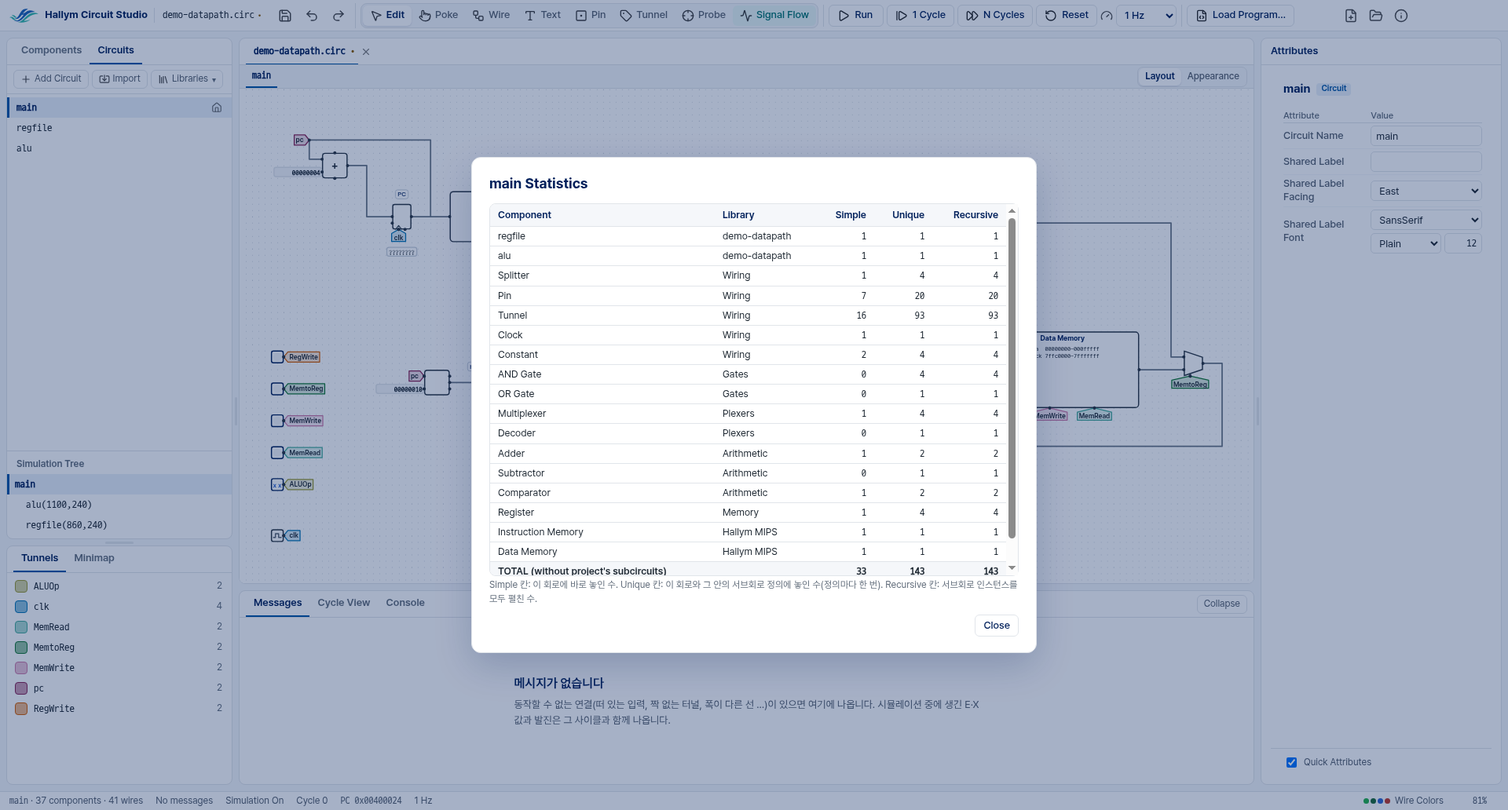
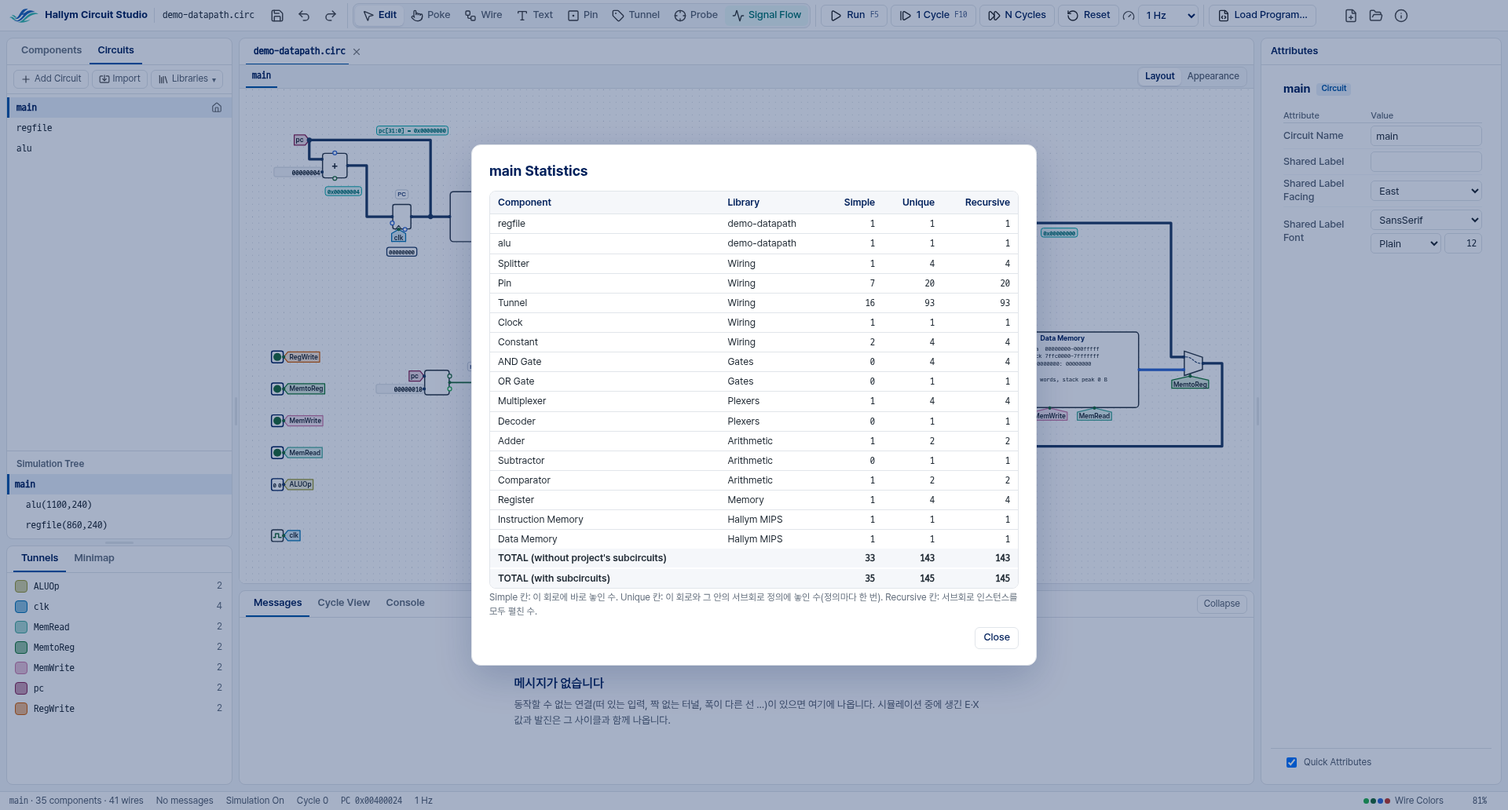
Address the #453 reviews: clean files stay clean after the first program load, Korean-only analysis notes, pinned statistics totals, restaged screenshots
Opening a file whose memory's .hmx differs reloads it without making the
file dirty, so quitting or Create Submission never re-save an untouched
file. Analyze Circuit says why no expression in one Korean sentence naming
the part; the multi-bit pin note states facts only. The statistics totals
sit in a sticky table foot. Screenshots use demo-datapath as opened and a
new overlap-checked half adder example.

diff --git a/electron/tools/capture-screens.ts b/electron/tools/capture-screens.ts
@@ -955,19 +955,46 @@ function sideBySide(name: string, left: Buffer, right: Buffer): void {
   await shot(r, 'narrow-tabs');
   await r.close();
 }
-  // N-21 (D-162): Undo History, Export Image, Create Submission, Get Circuit Statistics, Analyze Circuit.
+  // N-21 (D-162): Export Image, Get Circuit Statistics and Create Submission over demo-datapath as opened (its values,
+  // the counts of what is on the Canvas); Undo History after edits made off to the side, the Canvas panned so the window
+  // stands over empty paper; Analyze Circuit of the half adder example (tests/circ/half-adder.circ, overlap-checked).
+  async function palette(r: Running, text: string, name: string): Promise<void> {
+    await r.page.keyboard.press('Control+k');
+    await r.page.keyboard.type(text);
+    await r.page.getByRole('dialog', { name: 'Search' }).locator('.palrow').first().filter({ hasText: name }).waitFor();
+    await r.page.keyboard.press('Enter');
+  }
   {
     const r = await start(FHD);
     const { page } = r;
     await openFile(r, sample(r.dir, DATAPATH));
     await drawn(r);
-    const palette = async (text: string, name: string) => {
-      await page.keyboard.press('Control+k');
-      await page.keyboard.type(text);
-      await page.getByRole('dialog', { name: 'Search' }).locator('.palrow').first().filter({ hasText: name }).waitFor();
-      await page.keyboard.press('Enter');
-    };
-    // Undo History: three gates placed, the last undone -- Start of History, the actions, Now, one to redo
+    // Export Image: PNG at 2x, the whole circuit, chips on
+    await palette(r, 'export', 'Export Image…');
+    await page.getByRole('dialog', { name: 'Export Image' }).waitFor();
+    await shot(r, 'export-dialog', { keepFocus: true });
+    await page.keyboard.press('Escape');
+    // Get Circuit Statistics of main (the engine's counts of this file)
+    await page.getByRole('tab', { name: 'Circuits' }).click();
+    await page.locator('.circlist li button', { hasText: 'main' }).first().click({ button: 'right' });
+    await page.locator('.ovmenu button', { hasText: 'Get Circuit Statistics' }).click();
+    await page.getByRole('dialog', { name: 'main Statistics' }).waitFor();
+    await shot(r, 'statistics');
+    await page.keyboard.press('Escape');
+    // Create Submission: saved, the four checks, the files
+    await palette(r, 'submission', 'Create Submission…');
+    await page.getByRole('dialog', { name: 'Create Submission' }).waitFor();
+    await shot(r, 'submission');
+    await page.keyboard.press('Escape');
+    await r.close();
+  }
+  {
+    const r = await start(FHD);
+    const { page } = r;
+    await openFile(r, sample(r.dir, DATAPATH));
+    await drawn(r);
+    // three gates placed below the datapath (no undo: the fake engine gives what an undo brings back new ids, and the
+    // values it sends are for the file's own)
     await page.evaluate(async () => {
       const app = (window as unknown as { app: { call(m: string, p: unknown): Promise<unknown> } }).app;
       const sc = (window as unknown as { __hcsCanvas: { scene: { fileId: string; circuitId: string } } }).__hcsCanvas.scene;
@@ -975,53 +1002,36 @@ function sideBySide(name: string, left: Buffer, right: Buffer): void {
       await app.call('edit.addComponent', { ...at, lib: 'Gates', name: 'AND Gate', loc: [700, 800] });
       await app.call('edit.addComponent', { ...at, lib: 'Gates', name: 'OR Gate', loc: [800, 800] });
       await app.call('edit.addComponent', { ...at, lib: 'Gates', name: 'NOT Gate', loc: [900, 800] });
-      await app.call('edit.undo', at);
     });
-    await palette('undo history', 'Undo History…');
-    await page.getByRole('dialog', { name: 'Undo History' }).locator('.histrow.redo').waitFor();
+    await drawn(r);
+    // the Canvas moved right by the window's width: the window stands over empty paper
+    await page.evaluate(() => {
+      const c = (window as unknown as { __hcsCanvas: { view: { x: number; y: number; zoom: number }; setView(v: object): void } }).__hcsCanvas;
+      c.setView({ ...c.view, x: c.view.x - 360 / c.view.zoom });
+    });
+    await canvasSettled(page);
+    await palette(r, 'undo history', 'Undo History…');
+    await page.getByRole('dialog', { name: 'Undo History' }).locator('.histrow', { hasText: 'Add NOT Gate' }).waitFor();
     await drawn(r);
     await shot(r, 'undo-history');
-    await page.getByRole('dialog', { name: 'Undo History' }).locator('.histlist').focus();
-    await page.keyboard.press('Escape');
-    // Export Image: PNG at 2x, the whole circuit, chips on
-    await palette('export', 'Export Image…');
-    await page.getByRole('dialog', { name: 'Export Image' }).waitFor();
-    await shot(r, 'export-dialog', { keepFocus: true });
-    await page.keyboard.press('Escape');
-    // Get Circuit Statistics of main (the engine's counts)
-    await page.getByRole('tab', { name: 'Circuits' }).click();
-    await page.locator('.circlist li button', { hasText: 'main' }).first().click({ button: 'right' });
-    await page.locator('.ovmenu button', { hasText: 'Get Circuit Statistics' }).click();
-    await page.getByRole('dialog', { name: 'main Statistics' }).waitFor();
-    await shot(r, 'statistics');
-    await page.keyboard.press('Escape');
     await r.close();
   }
   {
     const r = await start(FHD);
     const { page } = r;
-    await openFile(r, sample(r.dir, 'tests/circ/subcircuit.circ'));
+    await openFile(r, sample(r.dir, 'tests/circ/half-adder.circ'));
     await page.locator('.canvas-view canvas').waitFor();
     await canvasSettled(page);   // no values: the fake engine has none for this file
-    // Analyze Circuit of half_adder: the simulated table, the note why
+    // Analyze Circuit of main: the original's expression, its minimized forms
     await page.getByRole('tab', { name: 'Circuits' }).click();
-    await page.locator('.circlist li button', { hasText: 'half_adder' }).first().click({ button: 'right' });
+    await page.locator('.circlist li button', { hasText: 'main' }).first().click({ button: 'right' });
     await page.locator('.ovmenu button', { hasText: 'Analyze Circuit' }).click();
-    const a = page.getByRole('dialog', { name: 'Combinational Analysis: half_adder' });
+    const a = page.getByRole('dialog', { name: 'Combinational Analysis: main' });
     await a.locator('.tooltab', { hasText: 'Minimized' }).click();
     await shot(r, 'analyze');
     await page.keyboard.press('Escape');
-    // Create Submission: saved, the four checks, the files
-    await page.keyboard.press('Control+k');
-    await page.keyboard.type('submission');
-    await page.getByRole('dialog', { name: 'Search' }).locator('.palrow').first().filter({ hasText: 'Create Submission…' }).waitFor();
-    await page.keyboard.press('Enter');
-    await page.getByRole('dialog', { name: 'Create Submission' }).waitFor();
-    await shot(r, 'submission');
-    await page.keyboard.press('Escape');
     await r.close();
   }
-
 }
 
 await captureAll();

diff --git a/electron/src/renderer/app/project-tools.ts b/electron/src/renderer/app/project-tools.ts
@@ -137,11 +137,15 @@ export function historyWindow(host: ProjectToolsHost): HistoryWindow {
 
 export function showStatistics(s: Statistics): Promise<boolean> {
   const head = h('tr', {}, ...['Component', 'Library', 'Simple', 'Unique', 'Recursive'].map((t, i) => h('th', { class: i > 1 ? 'num' : '' }, t)));
-  const rows = statisticsLines(s).map((l) => h('tr', { class: l.total ? 'total' : '' },
-    h('td', {}, l.component), h('td', {}, l.library), h('td', { class: 'num' }, String(l.simple)), h('td', { class: 'num' }, String(l.unique)), h('td', { class: 'num' }, String(l.recursive))));
+  const row = (l: ReturnType<typeof statisticsLines>[number]) => h('tr', { class: l.total ? 'total' : '' },
+    h('td', {}, l.component), h('td', {}, l.library), h('td', { class: 'num' }, String(l.simple)), h('td', { class: 'num' }, String(l.unique)), h('td', { class: 'num' }, String(l.recursive)));
+  const lines = statisticsLines(s);
+  // the two TOTAL rows stay in view at the table's foot (the rows scroll above them)
   return dialog({
     title: `${s.circuit} Statistics`, cls: 'statsdlg',
-    body: [h('div', { class: 'tooltable' }, h('table', { class: 'stats' }, h('thead', {}, head), h('tbody', {}, ...rows))), h('p', { class: 'hint' }, prose(STATISTICS_HINT))],
+    body: [h('div', { class: 'tooltable' }, h('table', { class: 'stats' }, h('thead', {}, head),
+      h('tbody', {}, ...lines.filter((l) => !l.total).map(row)), h('tfoot', {}, ...lines.filter((l) => l.total).map(row)))),
+    h('p', { class: 'hint' }, prose(STATISTICS_HINT))],
     cancel: 'Close',
   });
 }
@@ -191,7 +195,6 @@ export function showAnalysis(a: Analysis): Promise<boolean> {
     : a.problem === 'noOutputs' || a.problem === 'tooManyOutputs' || a.problem === 'multibitOutput' ? 1 : 0;
   pick(Math.max(0, first));
   const notes = [problem, analyzeSourceText(a)].filter((t): t is string => !!t).map((t) => h('p', { class: 'toolnote' }, prose(t)));
-  if (a.expressionFailure) notes.push(h('p', { class: 'hint mono' }, a.expressionFailure));
   return dialog({ title: `Combinational Analysis: ${a.circuit}`, cls: 'analysisdlg', body: [...notes, strip, pane], cancel: 'Close' });
 }
 
@@ -226,8 +229,8 @@ export function askExport(o: { selection: boolean }): Promise<ExportChoice | nul
     sentence: EXPORT_SENTENCE,
     body: [h('div', { class: 'mfields' },
       field('Format', format), field('Scale', scale),
-      field('Range', h('span', { class: 'mradios' }, h('label', {}, all, 'Entire Circuit'), h('label', {}, sel, 'Selection Only')))),
-    h('div', { class: 'mextra' }, h('label', { class: 'mcheck' }, chips, 'Label Chips and Bus Widths'))],
+      field('Range', h('span', { class: 'mradios' }, h('label', {}, all, 'Entire Circuit'), h('label', {}, sel, 'Selection Only'))),
+      field('Chips', h('label', { class: 'mcheck' }, chips, 'Label Chips and Bus Widths')))],
     ok: 'Export…',
     onOpen: () => format.focus(),
   }).then((ok) => {

diff --git a/electron/tests/e2e/tools.e2e.ts b/electron/tests/e2e/tools.e2e.ts
@@ -102,7 +102,8 @@ test('Analyze Circuit (the original\'s, read only): the circuit menu, the simula
     await circuitMenu(page, 'half_adder', 'Analyze Circuit');
     const d = page.getByRole('dialog', { name: 'Combinational Analysis: half_adder' });
     await expect(d).toBeVisible();
-    await expect(d.locator('.toolnote')).toContainText('시뮬레이션해 진리표를 만들었습니다');
+    await expect(d.locator('.toolnote')).toHaveText(/^식 계산이 다루지 않는 부품이 있어\u2060?\(부품 이름: Tunnel\) 식을 바로 만들지 못했습니다\. 입력의 모든 조합을 시뮬레이션해 진리표를 만들었고, 식은 그 진리표에서 만든 것입니다\.$/);
+    await expect(d).not.toContainText('Computing truth table');
     await expect(d.locator('.tooltab[aria-selected="true"]')).toHaveText('Table');
     await expect(d.locator('table.truth thead th')).toHaveText(['a', 'b', 's', 'c']);
     await expect(d.locator('table.truth tbody tr')).toHaveCount(4);
@@ -138,10 +139,13 @@ test('Get Circuit Statistics: the original\'s table (Simple, Unique, Recursive) 
     await expect(d).toBeVisible();
     await expect(d.locator('thead th')).toHaveText(['Component', 'Library', 'Simple', 'Unique', 'Recursive']);
     const want = JSON.parse(readFileSync(path.join(import.meta.dirname, '../fixtures/project-tools.json'), 'utf8'))['demo-datapath.circ'].main.statistics;
-    await expect(d.locator('tbody tr')).toHaveCount(want.rows.length + 2);
+    await expect(d.locator('tbody tr')).toHaveCount(want.rows.length);
+    await expect(d.locator('tfoot tr.total')).toHaveCount(2);
+    // both TOTAL rows in view at the table's foot, the rows scrolling above them
+    for (const t of await d.locator('tfoot tr.total').all()) await expect(t).toBeInViewport({ ratio: 1 });
     await expect(d.locator('tbody tr').first().locator('td')).toHaveText([want.rows[0].component, want.rows[0].library, String(want.rows[0].simple), String(want.rows[0].unique), String(want.rows[0].recursive)]);
-    await expect(d.locator('tbody tr.total').last().locator('td').first()).toHaveText('TOTAL (with subcircuits)');
-    await expect(d.locator('tbody tr.total').last().locator('td').nth(4)).toHaveText(String(want.with.recursive));
+    await expect(d.locator('tfoot tr.total').last().locator('td').first()).toHaveText('TOTAL (with subcircuits)');
+    await expect(d.locator('tfoot tr.total').last().locator('td').nth(4)).toHaveText(String(want.with.recursive));
     await d.getByRole('button', { name: 'Close' }).click();
   } finally {
     await r.close();

diff --git a/electron/tools/mutants.ts b/electron/tools/mutants.ts
@@ -979,7 +979,6 @@ export const MUTANTS: Mutant[] = [
     find: "  if (course === null) { start.go('course'); return; }\n", replace: '', tests: ['tests/e2e/titlebar-icons.e2e.ts'] },
   { module: 'glass', file: 'src/renderer/app/app.ts', what: 'Export Image shown with nothing to export with',
     find: '  bExport.hidden = exportImage === null || !f;', replace: '  bExport.hidden = false;', tests: ['tests/e2e/titlebar-icons.e2e.ts'] },
-<<<<<<< HEAD
   // ---- Hallym MIPS 2.6.0: the field colours, the screenshots' fixed conditions (A-07, D-167)
   { module: 'field colours', file: 'src/renderer/shared/panels.css', what: 'shamt\'s tint a level off Hallym MIPS\'s',
     find: '.f-shamt, .f-fd { background: #efe9f6;', replace: '.f-shamt, .f-fd { background: #efe9f7;', tests: ['tests/unit/field-colors.test.ts'] },
@@ -991,7 +990,6 @@ export const MUTANTS: Mutant[] = [
     find: "export const FIXED_TIME = '2026-09-28T10:00:00+09:00';", replace: "export const FIXED_TIME = '2026-09-28T11:00:00+09:00';", tests: ['tests/unit/screen-conditions.test.ts'] },
   { module: 'screen conditions', file: 'tests/e2e/screen-conditions.ts', what: 'the held frame without the video\'s filter',
     find: '      c.style.filter = look.filter;\n', replace: '', tests: ['tests/e2e/screen-conditions.e2e.ts'] },
-=======
   // ---- the rest of v1's commands (N-21, D-162: logic/project-tools.ts, project-tools.ts, src/main/pictures.ts)
   { module: 'tools', file: 'src/renderer/app/logic/project-tools.ts', what: 'a selection picture keeps every net\'s wires',
     find: 'wires: n.wires.filter((w) => kept.has(w))', replace: 'wires: n.wires', tests: ['tests/unit/project-tools.test.ts'] },
@@ -1009,7 +1007,6 @@ export const MUTANTS: Mutant[] = [
     find: '      if ((dirty || f.path === null) && !(await this.host.save(f))) return;\n', replace: '', tests: ['tests/e2e/tools.e2e.ts'] },
   { module: 'tools', file: 'src/renderer/app/project-tools.ts', what: 'the export draws everything when the selection was asked for',
     find: 'const snap = c.selection ? subSnapshot(scene.snapshot(), ids) : scene.snapshot();', replace: 'const snap = scene.snapshot();', tests: ['tests/e2e/tools.e2e.ts'] },
->>>>>>> 2d4f1c53 (Show Undo History, Export Image, Print, Create Submission, Analyze Circuit and Statistics (N-21))
 ];
 
 function copyTree(dir: string): void {

diff --git a/electron/src/renderer/app/logic/project-tools.ts b/electron/src/renderer/app/logic/project-tools.ts
@@ -38,7 +38,7 @@ export function analyzeProblemText(a: Analysis): string | null {
   const p: AnalyzeProblem | undefined = a.problem;
   if (!p) return null;
   switch (p) {
-    case 'multibitInput': return `여러 비트 입력 핀이 있어 분석하지 않았습니다(핀 이름: ${a.pin ?? ''}). 조합 분석은 1비트 핀만 다룹니다. Splitter 부품으로 나눈 1비트 핀을 두면 분석합니다.`;
+    case 'multibitInput': return `여러 비트 입력 핀이 있어 분석하지 않았습니다(핀 이름: ${a.pin ?? ''}). 조합 분석은 1비트 핀만 다룹니다.`;
     case 'multibitOutput': return `여러 비트 출력 핀이 있어 분석하지 않았습니다(핀 이름: ${a.pin ?? ''}). 조합 분석은 1비트 핀만 다룹니다.`;
     case 'tooManyInputs': return `입력 핀이 ${a.inputs.length}개입니다. 조합 분석은 입력 핀 ${a.maxInputs}개까지 다룹니다.`;
     case 'tooManyOutputs': return `출력 핀이 ${a.outputs.length}개입니다. 조합 분석은 출력 핀 ${a.maxOutputs}개까지 다룹니다.`;
@@ -49,7 +49,11 @@ export function analyzeProblemText(a: Analysis): string | null {
 
 // How the table came (the original: an expression when the circuit is gates only, else simulated).
 export function analyzeSourceText(a: Analysis): string | null {
-  if (a.source === 'table') return '원조의 식 계산이 다루지 않는 부품이 있어, 입력의 모든 조합을 시뮬레이션해 진리표를 만들었습니다. 식은 그 진리표에서 만든 것입니다.';
+  if (a.source !== 'table') return null;
+  const why = a.expressionReason === 'circular' ? '값이 되돌아 들어가는 고리가 있어'
+    : a.expressionReason === 'conflict' ? '한 선에 출력이 둘 이어져 있어'
+    : a.expressionPart ? `식 계산이 다루지 않는 부품이 있어(부품 이름: ${a.expressionPart})` : '식 계산이 다루지 않는 부품이 있어';
+  return `${why} 식을 바로 만들지 못했습니다. 입력의 모든 조합을 시뮬레이션해 진리표를 만들었고, 식은 그 진리표에서 만든 것입니다.`;
   return null;
 }
 

diff --git a/electron/src/renderer/app/tools.css b/electron/src/renderer/app/tools.css
@@ -26,7 +26,8 @@
 .tooldlg p, .tooldlg li { word-break: keep-all; }
 .tooldlg h3 { margin: 14px 0 6px; font-size: 13px; color: var(--navy); }
 .tooldlg .mradios { display: flex; gap: 14px; }
-.tooldlg .mradios label { display: inline-flex; align-items: center; gap: 5px; }
+.tooldlg .mradios label, .tooldlg .mcheck { display: inline-flex; align-items: center; gap: 6px; line-height: 20px; }
+.tooldlg .mradios input, .tooldlg .mcheck input { margin: 0; }
 .tooldlg .mextra { display: flex; flex-direction: column; gap: 6px; }
 .tooltable { max-height: 46vh; overflow: auto; border: 1px solid var(--border); border-radius: 8px; margin-top: 10px; }
 .tooltable table { border-collapse: collapse; width: 100%; font-size: 12.5px; }
@@ -35,6 +36,10 @@
 .tooltable .num { text-align: right; }
 .tooltable td.num { font-family: var(--code); }
 .tooltable tr.total td { font-weight: 600; background: var(--window); }
+.tooltable tfoot tr.total td { position: sticky; border-bottom: 0; }
+.tooltable tfoot tr.total:first-child td { bottom: 26px; border-top: 1px solid var(--border); }
+.tooltable tfoot tr.total:last-child td { bottom: 0; }
+.statsdlg .tooltable { max-height: min(62vh, 640px); }
 .tooltable table.truth { width: auto; min-width: 100%; }
 .tooltable table.truth th, .tooltable table.truth td { text-align: center; padding: 2px 10px; }
 .tooltable table.truth .out.first { border-left: 2px solid var(--navy); }

diff --git a/electron/tests/unit/project-tools.test.ts b/electron/tests/unit/project-tools.test.ts
@@ -53,12 +53,17 @@ test('Analyze Circuit: the original\'s stops as facts and what to do, the simula
     analyzeProblemText(analysis({ problem: 'noInputs', inputs: [], source: null })),
     analyzeProblemText(analysis({ problem: 'noOutputs', outputs: [], source: null })),
     analyzeSourceText(analysis({ source: 'table' })),
+    analyzeSourceText(analysis({ source: 'table', expressionReason: 'cannotHandle', expressionPart: 'Tunnel' })),
   ];
   assert.ok(texts.every((t) => typeof t === 'string' && t.length > 10), JSON.stringify(texts));
   assert.match(texts[0]!, /핀 이름: d/);
   assert.match(texts[2]!, /13개.*12개/);
   assert.match(texts[3]!, /14개.*12개/);
   assert.equal(analyzeSourceText(analysis({})), null);
+  assert.match(analyzeSourceText(analysis({ source: 'table', expressionReason: 'cannotHandle', expressionPart: 'Tunnel' }))!, /^식 계산이 다루지 않는 부품이 있어\(부품 이름: Tunnel\) 식을/);
+  assert.match(analyzeSourceText(analysis({ source: 'table', expressionReason: 'circular' }))!, /고리/);
+  assert.match(analyzeSourceText(analysis({ source: 'table', expressionReason: 'conflict' }))!, /출력이 둘/);
+  assert.doesNotMatch(texts[0]!, /Splitter|두면/, 'facts only: which pin, and what the analysis takes');
   for (const t of texts) clean(t!);
 });
 

diff --git a/electron/src/renderer/app/app.ts b/electron/src/renderer/app/app.ts
@@ -798,12 +798,8 @@ async function dropFileTab(fileId: string, at: Point): Promise<void> {
 
 // The commands the palette offers now.
 function commandsNow(s: Snapshot | null): CommandId[] {
-<<<<<<< HEAD
-  const out: CommandId[] = ['reset', 'cycle', 'run', 'enable', ...(showing('loadProgram') ? ['load' as const] : []), 'find'];
-=======
-  const out: CommandId[] = ['reset', 'cycle', 'run', 'enable', 'load', 'find', 'undoHistory', 'submission', 'print', 'analyze', 'statistics'];
+  const out: CommandId[] = ['reset', 'cycle', 'run', 'enable', ...(showing('loadProgram') ? ['load' as const] : []), 'find', 'undoHistory', 'submission', 'print', 'analyze', 'statistics'];
   if (board.root.isConnected && board.scene) out.push('exportImage');
->>>>>>> 071cb911 (Show Undo History, Export Image, Print, Create Submission, Analyze Circuit and Statistics (N-21))
   if (board.root.isConnected && board.scene) out.push('fit');
   if (selectedSplitter(s)) out.push('editSplitter');
   const f = files.active();

diff --git a/electron/src/main/protocol.ts b/electron/src/main/protocol.ts
@@ -663,6 +663,8 @@ export interface Analysis {
   pin?: string;                               // the multi-bit pin
   source: 'expression' | 'table' | null;      // table: no expression, the table was simulated
   expressionFailure?: string;                 // the original's reason (English)
+  expressionReason?: 'circular' | 'conflict' | 'cannotHandle';   // why no expression (source: table)
+  expressionPart?: string;                    // cannotHandle: the part's name (Tunnel)
   table?: { rows: string[][] };
   expressions?: { output: string; expression: string | null; sop: string | null; pos: string | null }[];
 }

diff --git a/engine/src/test/java/kr/ac/hallym/hcs/engine/ProjectToolsTest.java b/engine/src/test/java/kr/ac/hallym/hcs/engine/ProjectToolsTest.java
@@ -240,6 +240,8 @@ class ProjectToolsTest {
         JsonObject mux = call("model.analyze", "fileId", fileId, "circuitId", ids.get("mux"));
         assertEquals("table", mux.get("source").getAsString(), "no expression for a multiplexer: simulated");
         assertTrue(mux.has("expressionFailure"), mux.toString());
+        assertEquals("cannotHandle", mux.get("expressionReason").getAsString());
+        assertEquals("Multiplexer", mux.get("expressionPart").getAsString());
         assertEquals(8, mux.getAsJsonObject("table").getAsJsonArray("rows").size());
         List<String> ins = new ArrayList<>();
         mux.getAsJsonArray("inputs").forEach(x -> ins.add(x.getAsString()));
@@ -358,6 +360,11 @@ class ProjectToolsTest {
         return lab;
     }
 
+    /** mips.reloaded after the file opened (the program the memory's source names, loaded once). */
+    void awaitProgramLoaded(String fileId) {
+        e.client.awaitNotification("mips.reloaded", n -> n.get("fileId").getAsString().equals(fileId));
+    }
+
     static List<String> strings(JsonArray a) {
         List<String> out = new ArrayList<>();
         a.forEach(x -> out.add(x.getAsString()));
@@ -371,10 +378,15 @@ class ProjectToolsTest {
         Path prog = Files.createDirectories(dir.resolve("prog"));
         File hmx = new File(Fixtures.REF_MIPS.getParentFile().getParentFile(), "hmx/example.hmx");
         Files.copy(hmx.toPath(), prog.resolve("example.hmx"));
+        long mtime = lab.lastModified();
+        byte[] labBytes = Files.readAllBytes(lab.toPath());
         String fileId = open(lab);
+        // the program the Instruction Memory points at is loaded when the file opens (D-147): not the student's edit
+        awaitProgramLoaded(fileId);
+        assertFalse(call("file.dirty", "fileId", fileId).get("dirty").getAsBoolean(), "opening leaves the file clean");
         JsonObject plan = call("file.submission", "fileId", fileId);
         assertTrue(plan.get("saved").getAsBoolean());
-        // (dirty right after opening depends on the program loading from the source attribute: not checked here)
+        assertFalse(plan.get("dirty").getAsBoolean());
         assertEquals(List.of("lab.circ", "hcs-mips.jar", "prog/example.hmx"), strings(plan.getAsJsonArray("files")),
                 "the .circ, its libraries, its program, by their paths from the .circ's folder");
         assertTrue(plan.get("bundledJar").getAsBoolean(), "no hcs-mips.jar beside it: the bundled one under that name");
@@ -406,6 +418,8 @@ class ProjectToolsTest {
         }
         left.sort(null);
         assertEquals(List.of("hand-in.zip", "lab.circ", "prog"), left);
+        assertArrayEquals(labBytes, Files.readAllBytes(lab.toPath()), "the student's .circ is not written");
+        assertEquals(mtime, lab.lastModified(), "nor touched");
 
         // an edit not saved yet: said so (the zip holds the saved file); a Probe left: counted
         String main = call("file.info", "fileId", fileId).get("main").getAsString();

diff --git a/engine/src/test/java/kr/ac/hallym/hcs/engine/ExampleLayoutTest.java b/engine/src/test/java/kr/ac/hallym/hcs/engine/ExampleLayoutTest.java
@@ -34,12 +34,12 @@ class ExampleLayoutTest {
 
     /**
      * 검사하는 회로: 학생에게 가는 예제(Help › Examples: 논리설계 셋(A-08)과 v1의 MIPS 셋), 참조 CPU(화면 스크린샷·진짜 엔진 e2e가 연다),
-     * demo-datapath에서 만든 고장 회로(Messages 스크린샷). tests/mips/ref-mips-v1-stack.circ는 옛 파일 회귀용으로
+     * demo-datapath에서 만든 고장 회로(Messages 스크린샷), Analyze Circuit 스크린샷의 반가산기(N-21). tests/mips/ref-mips-v1-stack.circ는 옛 파일 회귀용으로
      * 그대로 둔 파일이라, tests/circ의 작은 회귀 회로·고장·흐름 회로는 학생에게 가지 않는 시험 입력이라 뺀다.
      */
     static final List<String> CHECKED = List.of("tests/circ/adder-1bit.circ", "tests/circ/ripple-carry-4bit.circ",
             "tests/circ/counter-4bit.circ", "tests/circ/demo-datapath.circ", "tests/circ/console-demo.circ",
-            "tests/circ/stack-demo.circ", "tests/mips/ref-mips.circ", "electron/tests/fixtures/broken-datapath.circ");
+            "tests/circ/stack-demo.circ", "tests/circ/half-adder.circ", "tests/mips/ref-mips.circ", "electron/tests/fixtures/broken-datapath.circ");
 
     @TempDir
     Path tmp;

diff --git a/engine/src/main/java/kr/ac/hallym/hcs/engine/project/Analysis.java b/engine/src/main/java/kr/ac/hallym/hcs/engine/project/Analysis.java
@@ -94,6 +94,19 @@ public final class Analysis {
         } catch (AnalyzeException ex) {
             // 원조: 알림 창("analyzeNoExpressionTitle") 뒤 시뮬레이션으로 진리표를 만든다
             o.addProperty("expressionFailure", ex.getMessage());
+            // 화면이 한국어 문장으로 말하게(원조 영어 문장은 보이지 않는다): 까닭의 종류와, 다루지 못한 부품 이름
+            if (ex instanceof AnalyzeException.Circular) {
+                o.addProperty("expressionReason", "circular");
+            } else if (ex instanceof AnalyzeException.Conflict) {
+                o.addProperty("expressionReason", "conflict");
+            } else {
+                o.addProperty("expressionReason", "cannotHandle");
+                java.util.regex.Matcher m = java.util.regex.Pattern.compile("due to (.+?)\\.?$").matcher(
+                        String.valueOf(ex.getMessage()));
+                if (m.find()) {
+                    o.addProperty("expressionPart", m.group(1));
+                }
+            }
             Analyze.computeTable(model, d.project(), circuit, pinNames);
             source = "table";
         }
